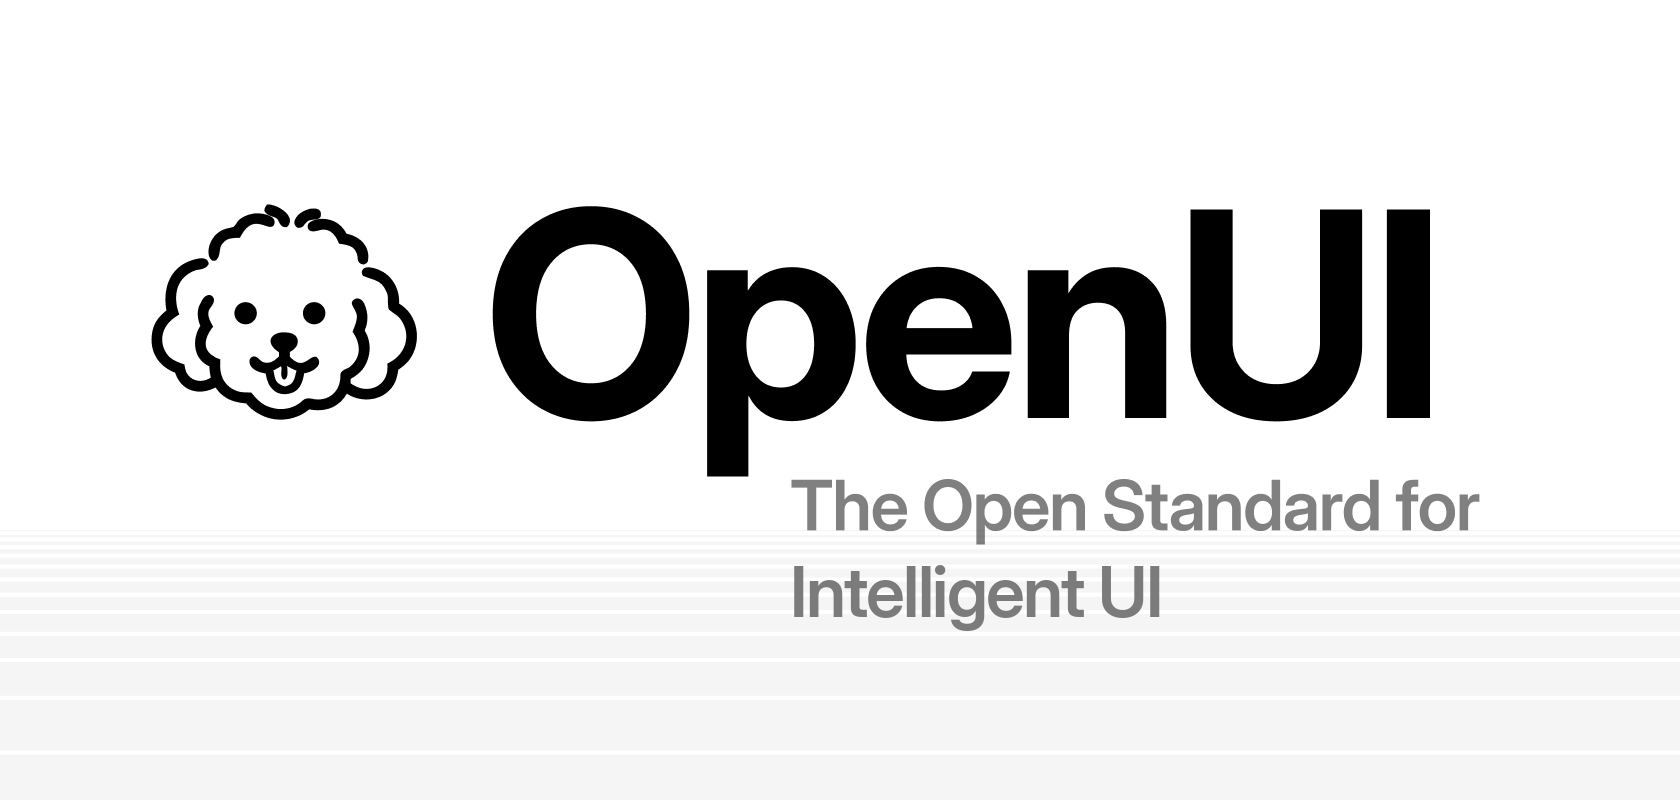
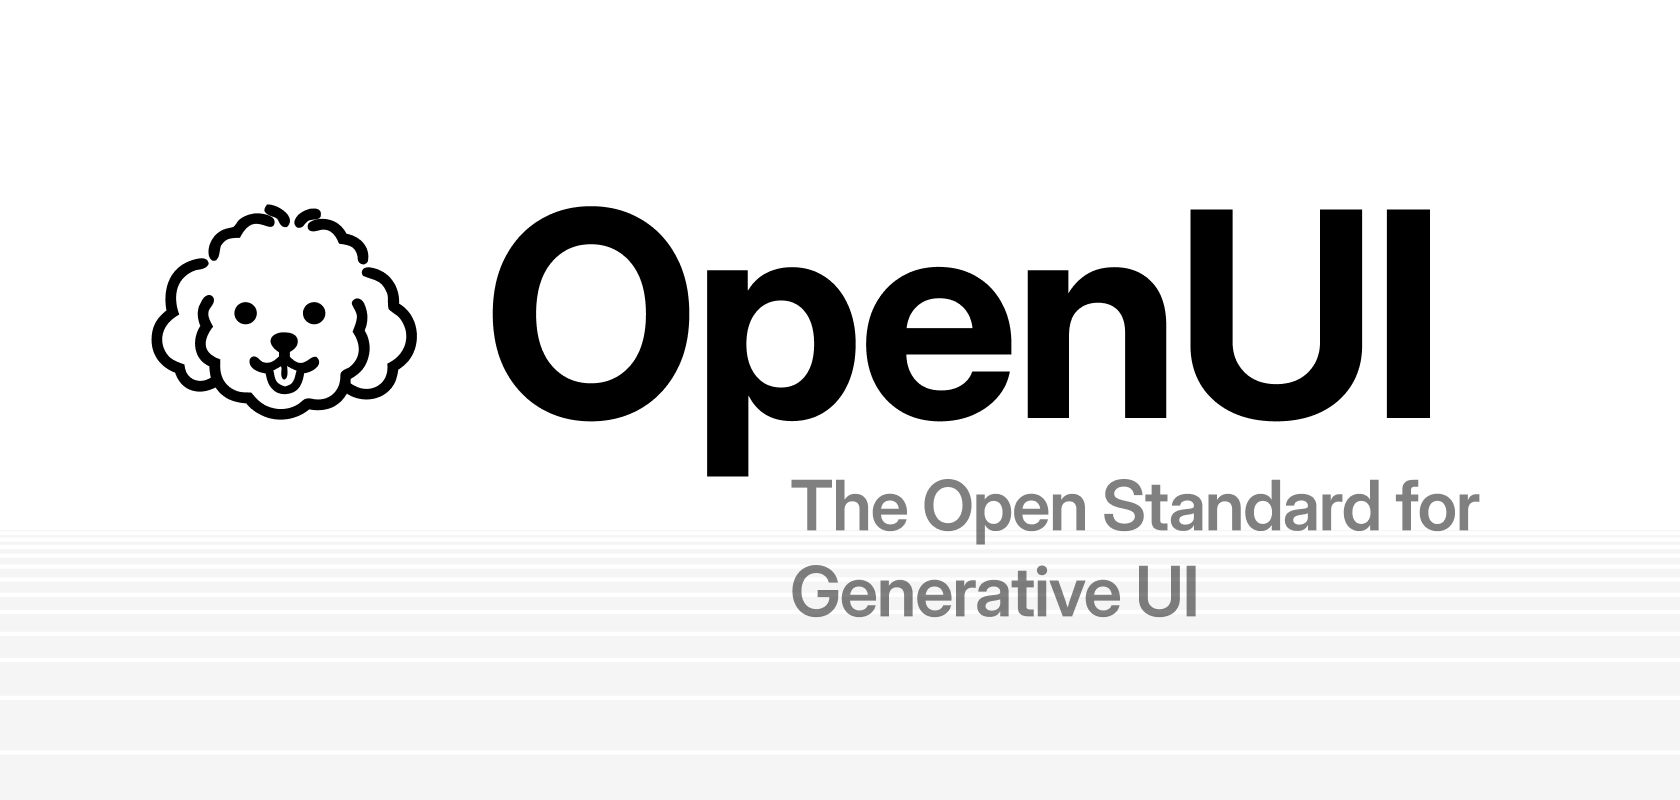
docs: keep visible tagline, change metadata only

Changed region(s): [[0.4643, 0.6875, 0.7119, 0.8125]]

diff --git a/docs/app/(home)/page.tsx b/docs/app/(home)/page.tsx
@@ -68,7 +68,7 @@ export default function HomePage() {
         <HeroSection
           align="left"
           desktopFromTablet
-          subtitle="Open Standard for Intelligent UI"
+          subtitle="Open Standard for Generative UI"
           showPlaygroundButton={false}
           showTagline={false}
           commandTrailing={<AgentPicker command={AGENT_SETUP_PROMPT} />}

diff --git a/docs/app/(home)/sections/HeroSection/HeroSection.tsx b/docs/app/(home)/sections/HeroSection/HeroSection.tsx
@@ -656,7 +656,7 @@ export function Tagline({ children, compact }: { children?: ReactNode; compact?:
 
 export function HeroSection({
   title = "OpenUI",
-  subtitle = "The Open Standard for Intelligent UI",
+  subtitle = "The Open Standard for Generative UI",
   command = primaryCTA,
   commandLabel,
   secondaryCommand,

diff --git a/docs/components/site-primary-nav.tsx b/docs/components/site-primary-nav.tsx
@@ -119,7 +119,7 @@ export const PRIMARY_SITE_NAV_ITEMS: NavItem[] = [
         children: [
           {
             title: "OpenUI",
-            description: "The open standard for Intelligent UI.",
+            description: "The open standard for generative UI.",
             href: "/",
           },
         ],

diff --git a/README.md b/README.md
@@ -3,13 +3,13 @@
 <a href="https://www.openui.com" target="_blank" rel="noopener noreferrer">
   <img 
     src="./assets/banner.png" 
-    alt="OpenUI - The Open Standard for Intelligent UI" 
+    alt="OpenUI - The Open Standard for Generative UI" 
     width="100%" 
     style="cursor: pointer;"
   >
 </a>
 
-# OpenUI - The Open Standard for Intelligent UI
+# OpenUI - The Open Standard for Generative UI
 
 <p align="center">
   <a href="https://github.com/thesysdev/openui/actions/workflows/build-js.yml"><img alt="Build" src="https://github.com/thesysdev/openui/actions/workflows/build-js.yml/badge.svg"></a>
